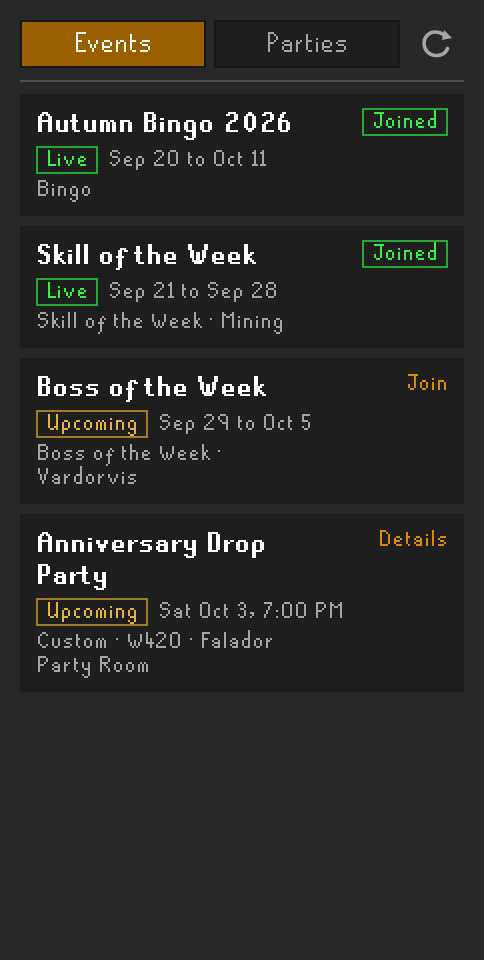
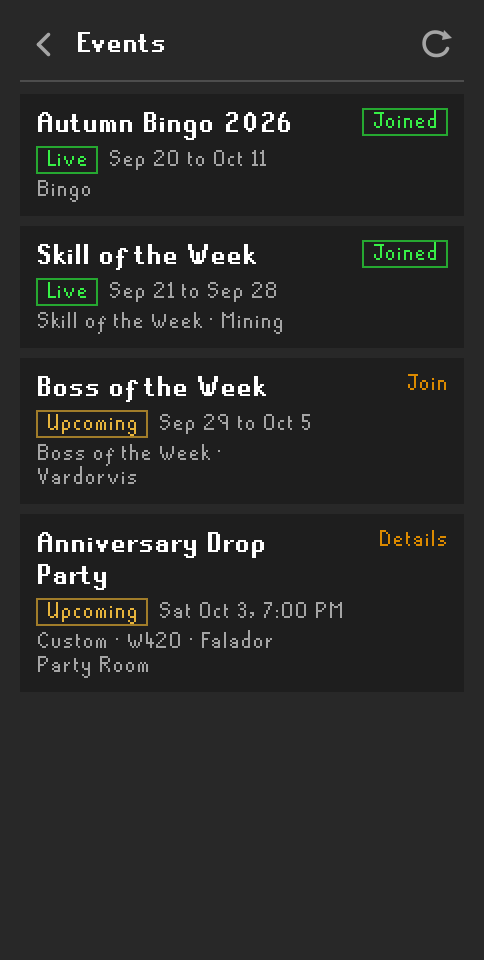
feat: add sidebar home grid

Changed region(s): [[0.031, 0.0, 0.4339, 0.0938], [0.5579, 0.0312, 0.7128, 0.0625]]

diff --git a/src/main/java/com/tsghub/TsgHubSidebarPanel.java b/src/main/java/com/tsghub/TsgHubSidebarPanel.java
@@ -12,10 +12,15 @@ import java.awt.GridLayout;
 import java.time.LocalTime;
 import java.time.format.DateTimeFormatter;
 import java.util.ArrayList;
+import java.util.Arrays;
 import java.util.Comparator;
 import java.util.List;
+import java.util.function.BooleanSupplier;
+import java.util.function.Supplier;
 import javax.swing.BorderFactory;
 import javax.swing.Box;
+import javax.swing.BoxLayout;
+import javax.swing.Icon;
 import javax.swing.JButton;
 import javax.swing.JCheckBox;
 import javax.swing.JLabel;
@@ -38,7 +43,7 @@ final class TsgHubSidebarPanel extends PluginPanel
 	private static final int CARD_TITLE_W = 150;
 	private static final DateTimeFormatter TIME = DateTimeFormatter.ofPattern("h:mm a");
 
-	private enum View { LOGGED_OUT, NOT_IN_CLAN, SHARING_OFF, EVENTS, PREVIEW, BOARD, COMPETITION_PREVIEW, COMPETITION, DROP_PARTY, GROUPS }
+	private enum View { LOGGED_OUT, NOT_IN_CLAN, SHARING_OFF, HOME, EVENTS, PREVIEW, BOARD, COMPETITION_PREVIEW, COMPETITION, DROP_PARTY, GROUPS }
 
 	private final TsgHubPlugin plugin;
 	private final JButton back = TsgHubUi.iconButton(new TsgHubUi.BackIcon(), "Back to events");
@@ -85,6 +90,7 @@ final class TsgHubSidebarPanel extends PluginPanel
 	private final JPanel headerRow = new JPanel(new BorderLayout(4, 0));
 	private final JPanel titleRow = new JPanel(new BorderLayout(4, 0));
 	private final Color tabBackground = eventsTab.getBackground();
+	private final List<Section> sections;
 	private final TsgHubUi.WidthTrackingPanel groupsPage = new TsgHubUi.WidthTrackingPanel();
 	private final GroupMembersPanel groupMembers;
 	private static final String OTHER_ACTIVITY = "Other...";
@@ -107,11 +113,34 @@ final class TsgHubSidebarPanel extends PluginPanel
 	private String eventsTitle = "", eventsSubtitle = "";
 	private boolean eventsBack, eventsRefresh;
 
+	private static final class Section
+	{
+		private final String name;
+		private final String tooltip;
+		private final Icon icon;
+		private final Runnable open;
+		private final Supplier<String> summary;
+		private final BooleanSupplier live;
+
+		Section(String name, String tooltip, Icon icon, Runnable open, Supplier<String> summary, BooleanSupplier live)
+		{
+			this.name = name;
+			this.tooltip = tooltip;
+			this.icon = icon;
+			this.open = open;
+			this.summary = summary;
+			this.live = live;
+		}
+	}
+
 	TsgHubSidebarPanel(TsgHubPlugin plugin, GroupMembersPanel groupMembers)
 	{
 		super(false);
 		this.plugin = plugin;
 		this.groupMembers = groupMembers;
+		sections = Arrays.asList(
+			new Section("Events", "Clan events and your team's board", new TsgHubUi.CalendarIcon(), this::openEvents, this::eventsSummary, () -> liveEvents() > 0),
+			new Section("Parties", "Join a clanmate's party or start one", new TsgHubUi.PartyIcon(), this::showParties, this::partiesSummary, () -> plugin.groups().inGroup()));
 		setLayout(new BorderLayout(0, 6));
 		setBackground(TsgHubUi.BACKGROUND);
 		setBorder(BorderFactory.createEmptyBorder(10, 10, 10, 10));
@@ -164,10 +193,15 @@ final class TsgHubSidebarPanel extends PluginPanel
 		titleRow.setOpaque(false);
 		titleRow.setBorder(BorderFactory.createEmptyBorder(6, 0, 0, 0));
 		back.addActionListener(e -> {
-			if (view == View.GROUPS)
+			if (view == View.GROUPS && browsingParties && plugin.groups().inGroup())
 			{
 				browsingParties = false;
 				renderGroups();
+				return;
+			}
+			if (view == View.GROUPS || view == View.EVENTS)
+			{
+				showHome();
 				return;
 			}
 			showEventList();
@@ -185,7 +219,12 @@ final class TsgHubSidebarPanel extends PluginPanel
 		organizer.addActionListener(e -> plugin.openWorkspace());
 		organizer.setVisible(false);
 		refresh.addActionListener(e -> {
-			if (view == View.GROUPS) plugin.groups().refresh();
+			if (view == View.HOME)
+			{
+				plugin.loadClanEvents();
+				plugin.groups().refresh();
+			}
+			else if (view == View.GROUPS) plugin.groups().refresh();
 			else if (view == View.BOARD) plugin.refreshBoard();
 			else if (view == View.COMPETITION && competitionEvent != null) plugin.openCompetition(TsgHubUi.str(competitionEvent, "id"));
 			else plugin.loadClanEvents();
@@ -199,7 +238,7 @@ final class TsgHubSidebarPanel extends PluginPanel
 
 		tabRow.setOpaque(false);
 		eventsTab.addActionListener(e -> showEventsTab());
-		groupsTab.addActionListener(e -> showGroupsTab());
+		groupsTab.addActionListener(e -> showParties());
 		eventsTab.setToolTipText("Clan events and your team's board");
 		groupsTab.setToolTipText("Join a clanmate's party or start one");
 		tabRow.add(eventsTab);
@@ -332,6 +371,97 @@ final class TsgHubSidebarPanel extends PluginPanel
 	{
 		this.events = events;
 		if (view == View.EVENTS) renderEvents();
+		else if (view == View.HOME) renderHome();
+	}
+
+	void showHome()
+	{
+		setView(View.HOME);
+		renderHome();
+		plugin.groups().refresh();
+	}
+
+	private void renderHome()
+	{
+		setHeader("TSG Hub", plugin.getDetectedPlayerName(), false, true);
+		page.removeAll();
+		for (int i = 0; i < sections.size(); i += 2)
+		{
+			boolean pair = i + 1 < sections.size();
+			JPanel row = new JPanel(new GridLayout(1, pair ? 2 : 1, 6, 0));
+			row.setOpaque(false);
+			row.add(sectionTile(sections.get(i), pair));
+			if (pair) row.add(sectionTile(sections.get(i + 1), true));
+			page.add(TsgHubUi.fitHeight(row));
+			page.add(Box.createVerticalStrut(6));
+		}
+		refreshPage();
+	}
+
+	private JPanel sectionTile(Section section, boolean half)
+	{
+		JPanel tile = new JPanel();
+		tile.setLayout(new BoxLayout(tile, BoxLayout.Y_AXIS));
+		tile.setBackground(TsgHubUi.CARD);
+		tile.setBorder(BorderFactory.createEmptyBorder(12, 6, 12, 6));
+		JLabel icon = new JLabel(section.icon);
+		JLabel name = TsgHubUi.label(section.name, TsgHubUi.TEXT, FontManager.getRunescapeBoldFont());
+		JLabel summary = TsgHubUi.label(TsgHubUi.html("<div style='text-align:center'>" + TsgHubUi.escape(section.summary.get()) + "</div>", half ? 80 : 180),
+			section.live.getAsBoolean() ? TsgHubUi.SUCCESS : TsgHubUi.MUTED, FontManager.getRunescapeSmallFont());
+		tile.add(icon);
+		tile.add(Box.createVerticalStrut(8));
+		tile.add(name);
+		tile.add(Box.createVerticalStrut(2));
+		tile.add(summary);
+		for (java.awt.Component part : tile.getComponents())
+		{
+			((javax.swing.JComponent) part).setAlignmentX(CENTER_ALIGNMENT);
+			if (part instanceof JLabel) ((JLabel) part).setHorizontalAlignment(JLabel.CENTER);
+		}
+		tile.setToolTipText(section.tooltip);
+		TsgHubUi.clickable(tile, section.open);
+		return tile;
+	}
+
+	private int liveEvents()
+	{
+		int live = 0;
+		if (events != null)
+			for (int i = 0; i < events.size(); i++)
+				if ("active".equals(TsgHubUi.str(events.get(i).getAsJsonObject(), "status"))) live++;
+		return live;
+	}
+
+	private String eventsSummary()
+	{
+		if (events == null) return "Loading...";
+		int live = liveEvents();
+		int upcoming = -live;
+		for (int i = 0; i < events.size(); i++)
+			if (!"ended".equals(TsgHubUi.str(events.get(i).getAsJsonObject(), "status"))) upcoming++;
+		if (live == 0 && upcoming == 0) return "No events right now";
+		if (upcoming == 0) return live + " live";
+		if (live == 0) return upcoming + " upcoming";
+		return live + " live, " + upcoming + " upcoming";
+	}
+
+	private String partiesSummary()
+	{
+		TsgHubGroups groups = plugin.groups();
+		if (groups.inGroup())
+		{
+			JsonObject current = groups.currentGroup();
+			return current == null ? "You're in a party" : "You're in " + TsgHubUi.str(current, "activity");
+		}
+		if (groupList == null) return "Loading...";
+		if (groupList.size() == 0) return "No parties yet";
+		return groupList.size() == 1 ? "1 party" : groupList.size() + " parties";
+	}
+
+	private void openEvents()
+	{
+		showEventList();
+		plugin.loadClanEvents();
 	}
 
 	void showEventList()
@@ -547,7 +677,7 @@ final class TsgHubSidebarPanel extends PluginPanel
 		else setHeader(eventsTitle, eventsSubtitle, eventsBack, eventsRefresh);
 	}
 
-	private void showGroupsTab()
+	void showParties()
 	{
 		if (view == View.GROUPS) return;
 		eventsView = view;
@@ -571,6 +701,7 @@ final class TsgHubSidebarPanel extends PluginPanel
 	{
 		groupList = groups;
 		if (view == View.GROUPS) renderGroups();
+		else if (view == View.HOME) renderHome();
 	}
 
 	void showGroup(JsonObject group)
@@ -594,6 +725,7 @@ final class TsgHubSidebarPanel extends PluginPanel
 	void groupRefreshed(JsonObject group)
 	{
 		if (view == View.GROUPS) renderGroups();
+		else if (view == View.HOME) renderHome();
 	}
 
 	void groupActionFailed(String message)
@@ -646,7 +778,7 @@ final class TsgHubSidebarPanel extends PluginPanel
 		Font small = FontManager.getRunescapeSmallFont();
 		int count = group == null ? 0 : TsgHubUi.array(group, "members").size();
 		setHeader(group == null ? "Your party" : TsgHubUi.str(group, "activity"),
-			count == 0 ? "" : count == 1 ? "Just you so far" : count + " members", false, true);
+			count == 0 ? "" : count == 1 ? "Just you so far" : count + " members", true, true);
 
 		groupsPage.add(groupMembers);
 		groupsPage.add(Box.createVerticalStrut(10));
@@ -680,8 +812,8 @@ final class TsgHubSidebarPanel extends PluginPanel
 	private void renderGroupList(JsonObject current)
 	{
 		Font small = FontManager.getRunescapeSmallFont();
-		setHeader(current != null ? "Other parties" : "", "", current != null, true);
-		back.setToolTipText(current != null ? "Back to your party" : "Back to events");
+		setHeader(current != null ? "Other parties" : "Parties", "", true, true);
+		back.setToolTipText(current != null ? "Back to your party" : "Home");
 		if (groupList == null)
 		{
 			groupsPage.add(TsgHubUi.label("Loading parties...", TsgHubUi.MUTED, small));
@@ -798,7 +930,7 @@ final class TsgHubSidebarPanel extends PluginPanel
 		boardShowing = next == View.BOARD;
 		if (next != View.COMPETITION) openCompetitionId = null;
 		centerLayout.show(center, next == View.BOARD ? "board" : next == View.GROUPS ? "groups" : "page");
-		if (next != View.GROUPS) back.setToolTipText("Back to events");
+		back.setToolTipText(next == View.EVENTS || next == View.GROUPS ? "Home" : "Back to events");
 		layoutHeader();
 		styleTab(groupsTab, next == View.GROUPS);
 		styleTab(eventsTab, next != View.GROUPS);
@@ -832,9 +964,9 @@ final class TsgHubSidebarPanel extends PluginPanel
 
 	private void renderEvents()
 	{
-		setHeader("", "", false, true);
-		page.removeAll();
 		String clan = plugin.getDetectedClanName();
+		setHeader("Events", "", true, true);
+		page.removeAll();
 		if (clan.isEmpty())
 		{
 			page.add(errorPanel("No clan detected", "Join a clan in game to see its events."));

diff --git a/src/test/java/com/tsghub/ReadmeScreenshots.java b/src/test/java/com/tsghub/ReadmeScreenshots.java
@@ -59,6 +59,7 @@ public class ReadmeScreenshots
 		set(plugin, "config", stub(TsgHubConfig.class));
 		set(plugin, "detectedClanName", "TSGaming");
 		set(plugin, "detectedClanRank", 100);
+		set(plugin, "detectedPlayerName", "Crab Legs");
 		set(plugin, "groups", new TsgHubGroups(plugin, null, (PartyService) unsafe().allocateInstance(PartyService.class), null, null, null));
 
 		TsgHubSidebarPanel sidebar = new TsgHubSidebarPanel(plugin, new GroupMembersPanel(new GroupViewSettings() {}, null, null));
@@ -74,6 +75,9 @@ public class ReadmeScreenshots
 			event.addProperty("joined", id.equals(str("bingo")) || id.equals(str("skill")));
 		}
 		sidebar.setEvents(events);
+		sidebar.setGroups(data.getAsJsonObject("groupsList").getAsJsonArray("groups"));
+		sidebar.showHome();
+		shoot(sidebar, SIDEBAR_W, 240, "home");
 		sidebar.showEventList();
 		BufferedImage eventList = shoot(sidebar, SIDEBAR_W, 480, "events");
 
@@ -87,8 +91,7 @@ public class ReadmeScreenshots
 		sidebar.showCompetition(data.getAsJsonObject("skillBoard").getAsJsonObject("event"), "Crab Legs", true);
 		shoot(sidebar, SIDEBAR_W, 400, "competition");
 
-		sidebar.setGroups(data.getAsJsonObject("groupsList").getAsJsonArray("groups"));
-		click(sidebar, "Parties");
+		sidebar.showParties();
 		BufferedImage parties = shoot(sidebar, SIDEBAR_W, 480, "parties");
 
 		TsgHubPanel organizer = new TsgHubPanel(plugin);
@@ -173,13 +176,6 @@ public class ReadmeScreenshots
 		Component tab = find(root, text, MaterialTab.class);
 		if (tab == null) throw new IllegalStateException("No tab " + text);
 		((MaterialTabGroup) tab.getParent()).select((MaterialTab) tab);
-	}
-
-	private static void click(Container root, String text)
-	{
-		Component button = find(root, text, AbstractButton.class);
-		if (button == null) throw new IllegalStateException("No button " + text);
-		((AbstractButton) button).doClick();
 	}
 
 	private static Component find(Container root, String text, Class<?> type)

diff --git a/src/main/java/com/tsghub/TsgHubUi.java b/src/main/java/com/tsghub/TsgHubUi.java
@@ -739,6 +739,51 @@ final class TsgHubUi
 		}
 	}
 
+	abstract static class TileIcon implements Icon
+	{
+		@Override public int getIconWidth() { return 24; }
+		@Override public int getIconHeight() { return 24; }
+
+		@Override
+		public final void paintIcon(Component component, Graphics graphics, int x, int y)
+		{
+			Graphics2D g = (Graphics2D) graphics.create();
+			g.translate(x, y);
+			g.scale(1.5, 1.5);
+			g.setRenderingHint(RenderingHints.KEY_ANTIALIASING, RenderingHints.VALUE_ANTIALIAS_ON);
+			g.setColor(ACCENT);
+			g.setStroke(new BasicStroke(1.5f, BasicStroke.CAP_ROUND, BasicStroke.JOIN_ROUND));
+			paint(g);
+			g.dispose();
+		}
+
+		abstract void paint(Graphics2D g);
+	}
+
+	static final class CalendarIcon extends TileIcon
+	{
+		@Override void paint(Graphics2D g)
+		{
+			g.drawRoundRect(2, 3, 12, 11, 2, 2);
+			g.drawLine(2, 7, 14, 7);
+			g.drawLine(5, 1, 5, 4);
+			g.drawLine(11, 1, 11, 4);
+			g.fillRect(5, 9, 2, 2);
+			g.fillRect(9, 9, 2, 2);
+		}
+	}
+
+	static final class PartyIcon extends TileIcon
+	{
+		@Override void paint(Graphics2D g)
+		{
+			g.drawOval(3, 2, 5, 5);
+			g.drawArc(0, 9, 11, 10, 0, 180);
+			g.drawOval(10, 3, 4, 4);
+			g.drawArc(9, 9, 7, 8, 20, 160);
+		}
+	}
+
 	static final class CheckIcon implements Icon
 	{
 		@Override public int getIconWidth() { return 14; }

diff --git a/src/main/java/com/tsghub/TsgHubPlugin.java b/src/main/java/com/tsghub/TsgHubPlugin.java
@@ -432,7 +432,7 @@ public class TsgHubPlugin extends Plugin
 			if (pending) { sidebar.showCheckingClan(); return; }
 			if (!isInHubClan()) { sidebar.showNotInClan(hubClanName, detectedClanName); return; }
 			if (!config.dataSharingOptIn()) { sidebar.showSharingOff(); return; }
-			sidebar.showEventList();
+			sidebar.showHome();
 			loadClanEvents();
 			String eventId = TsgHubSession.get("eventId");
 			String memberName = TsgHubSession.get("memberName:" + eventId);

diff --git a/README.md b/README.md
@@ -69,7 +69,7 @@ Tasks can be **Team** (everyone's progress pools together), **Everyone** (each m
 <td valign="top"><img src="docs/images/parties.png" width="242" alt="Clan party list"></td>
 <td valign="top">
 
-The **Parties** tab lists every open party in the clan, with its activity, world and members. Click one to join, or start your own: pick a raid, a group boss, a minigame, or type your own activity.
+The **Parties** section lists every open party in the clan, with its activity, world and members. Click one to join, or start your own: pick a raid, a group boss, a minigame, or type your own activity.
 
 There's no passphrase to share. Once you're in, each member's panel shows their health, prayer, special attack, run energy, gear, inventory, skills and active prayers, live over RuneLite's party connection.
 
